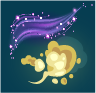
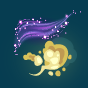
modify assets

diff --git a/game.py b/game.py
@@ -1,8 +1,10 @@
 import random
 
+WORLD_SIZE = 4
+
 class WumpusWorld:
     def __init__(self):
-        self.world = [[0] * 4 for _ in range(4)] 
+        self.world = [[''] * 4 for _ in range(4)] 
         self.world[0][0] = 1
         self.cur_row = 0
         self.cur_col = 0
@@ -10,7 +12,7 @@ class WumpusWorld:
     def reset_world(self):
         self.cur_row = 0
         self.cur_col = 0
-        self.world = [[0] * 4 for _ in range(4)] 
+        self.world = [[''] * 4 for _ in range(4)] 
         self.world[0][0] = 1
 
     def random_gold_wumpus_pits(self):
@@ -29,7 +31,7 @@ class WumpusWorld:
             else:
                 self.world[x][y] = character
         else:
-            #print("Error: Coordinates out of bounds!")
+            print("Error: Coordinates out of bounds!")
             pass
 
     def check_char(self, cell, letter):
@@ -42,20 +44,15 @@ class WumpusWorld:
         return False
 
     def add_stench_breeze(self):
-        for x in range(len(self.world)):
-            for y in range(len(self.world[x])):
-                if self.check_char([self.world[x][y]], 'W'):
-                    #if char == 'W':
-                    self.assign_environment(x, y+1, 'S')
-                    self.assign_environment(x, y-1, 'S')
-                    self.assign_environment(x+1, y, 'S')
-                    self.assign_environment(x-1, y, 'S')
-                elif self.check_char([self.world[x][y]], 'P'):                   
-                    self.assign_environment(x, y+1, 'B')
-                    self.assign_environment(x, y-1, 'B')
-                    self.assign_environment(x+1, y, 'B')
-                    self.assign_environment(x-1, y, 'B')
-                    
+        w_b = { 'W': 'S', 'P': 'B'}
+        for x in range(WORLD_SIZE):
+            for y in range(WORLD_SIZE):
+                for key, adj in w_b.items():
+                    if self.check_char([self.world[x][y]], key):
+                        self.assign_environment(x, y+1, adj)
+                        self.assign_environment(x, y-1, adj)
+                        self.assign_environment(x+1, y, adj)
+                        self.assign_environment(x-1, y, adj)
 
     def prepare_environment(self):
         g_w_p_coords = self.random_gold_wumpus_pits()
@@ -66,8 +63,7 @@ class WumpusWorld:
         self.add_stench_breeze()
 
         self.print_world(self.world)
-        
-        
+
         
     def print_world(self, array):    
         print("+" + "-" * 23 + "+")
@@ -82,8 +78,8 @@ class WumpusWorld:
         
 
 
-if __name__ == '__main__':
-    ww = WumpusWorld()
-    ww.prepare_environment()
+# if __name__ == '__main__':
+#     ww = WumpusWorld()
+#     ww.prepare_environment()
 
         

diff --git a/draw.py b/draw.py
@@ -10,13 +10,15 @@ GREEN = (67, 83, 24)
 LIGHT_GREEN = (194, 203, 159)
 BLUE = (6, 61, 81)
 
+WORLD_SIZE = 4
+
 class Draw:
     def __init__(self, screen):
         self.screen = screen
         
 
     def board(self):
-        pg.draw.rect(self.screen, LIGHT_GREEN, pg.Rect(mg_x, mg_y, 360, 360), 10)
+        pg.draw.rect(self.screen, LIGHT_GREEN, pg.Rect(mg_x, mg_y, 360, 360), 7)
 
         i = 1
         while (i * space) < 360:
@@ -30,3 +32,34 @@ class Draw:
         y = mg_y + row * space
         cell_rect = pg.Rect(x, y, space, space)  # Adjust for line width
         pg.draw.rect(self.screen, color, cell_rect)
+
+    def environment(self, world):
+        breeze_img = pg.image.load("assets/cell_breeze.png")
+        breeze_stench_img = pg.image.load("assets/cell_breeze-stench.png")
+        gold_img = pg.image.load("assets/cell_gold.png")
+        pit_img = pg.image.load("assets/cell_pit.png")
+        stench_img = pg.image.load("assets/cell_stench.png")
+        wumpus_img = pg.image.load("assets/cell_wumpus.png")
+
+        
+
+        for row in range(WORLD_SIZE):
+            for col in range(WORLD_SIZE):
+                cell_type = world[row][col]
+
+                x = mg_x + col * space
+                y = mg_y + row * space
+
+                if cell_type == 'B':
+                    self.screen.blit(breeze_img, (x, y))
+                elif cell_type == 'G':
+                    self.screen.blit(gold_img, (x, y))
+                elif cell_type == 'P':
+                    self.screen.blit(pit_img, (x, y))
+                elif cell_type == 'S':
+                    self.screen.blit(stench_img, (x, y))
+                elif cell_type == 'W':
+                    self.screen.blit(wumpus_img, (x, y))
+                    
+
+        

diff --git a/main.py b/main.py
@@ -35,6 +35,8 @@ def wumpus_world():
     
     game_bg = pg.image.load("assets/game-bg.png")
     screen.blit(game_bg, (0,0))
+    
+    ww.prepare_environment()
     while True:
         
         MOUSE_POS = pg.mouse.get_pos()
@@ -84,11 +86,12 @@ def wumpus_world():
                     draw.fill_path(row, col, GREEN)
                 draw.fill_path(ww.cur_row, ww.cur_col, AQUA)
 
+        draw.environment(ww.world)
         draw.board()
         pg.display.update()
 
 def main():
-    menu_bg = pg.image.load("assets/background-3.png")
+    menu_bg = pg.image.load("assets/background.png")
     screen.blit(menu_bg, (0,0))
     
     draw = Draw(screen)
